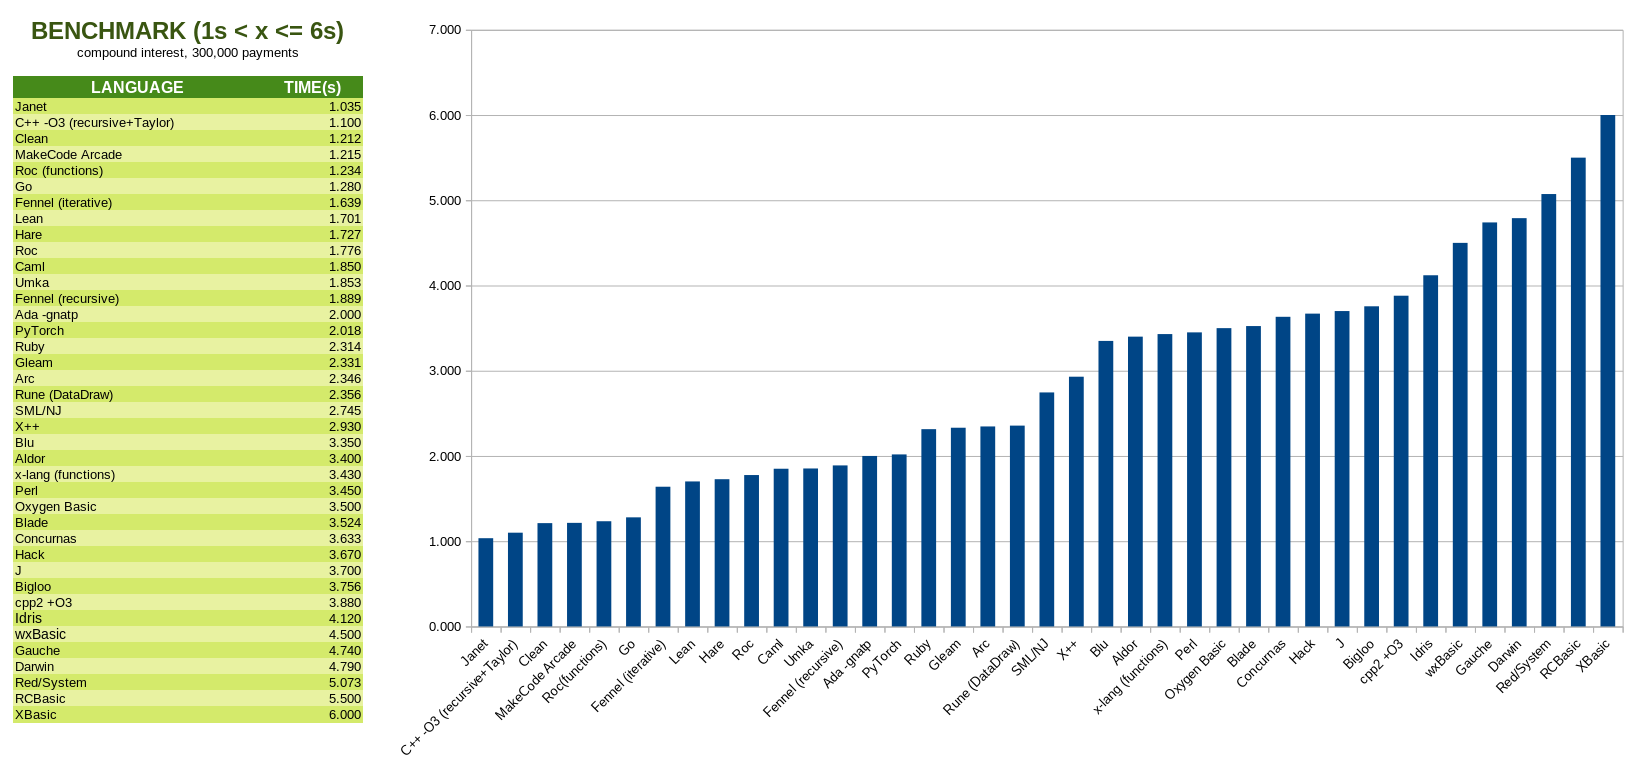
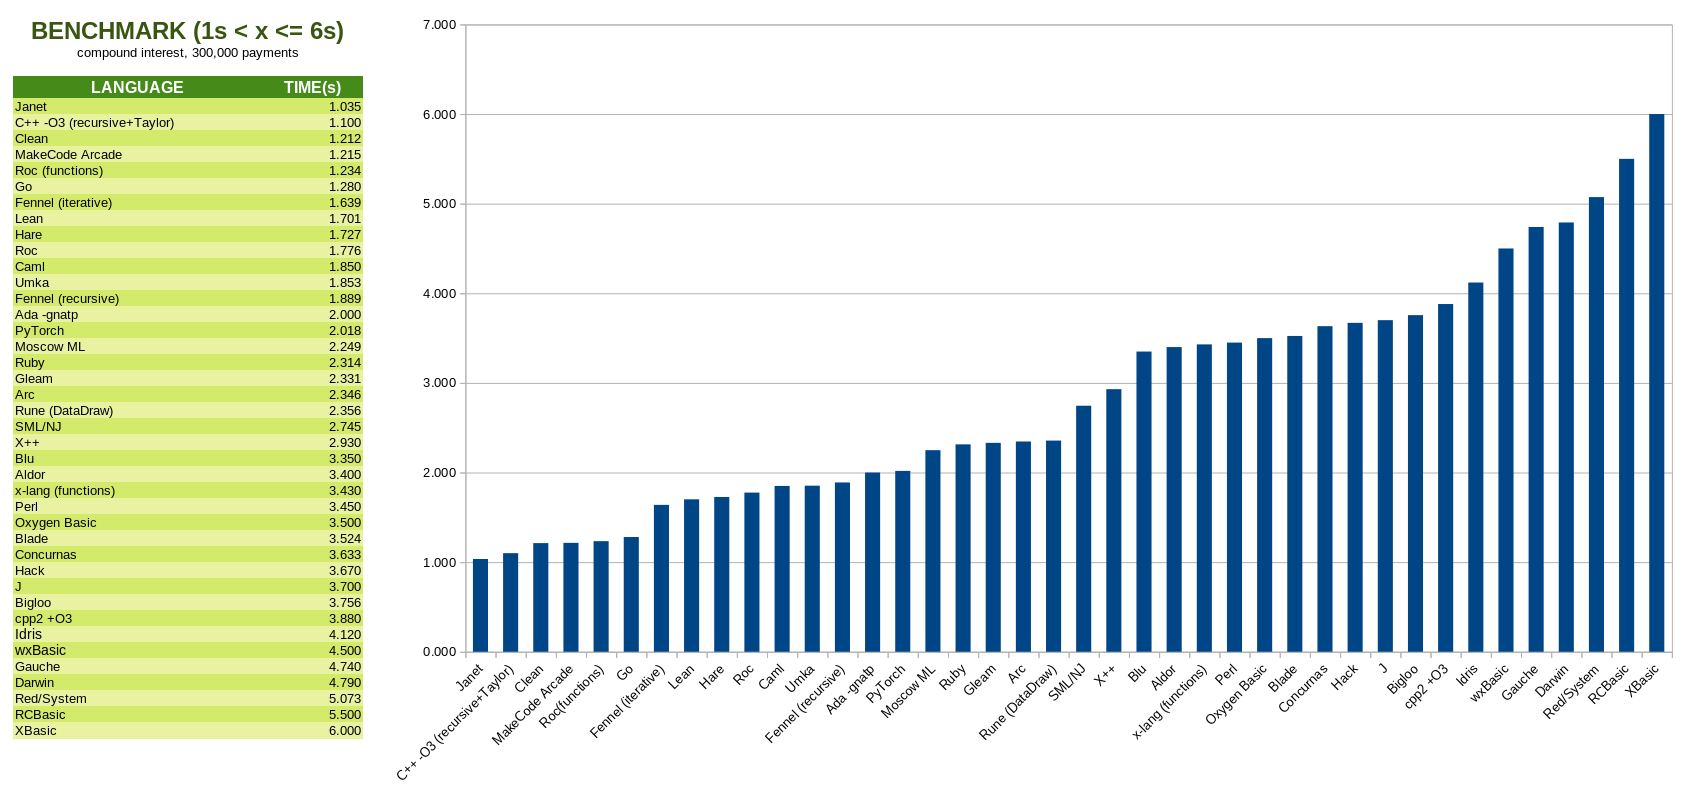
Add files via upload
0.2: 12/11/2026: RETIRADOS DE juros_alice.ml:
                           melhorias nos comentários (incluindo retornos de acentuação); saída do REPL no final; retirados casos especiais
                           validações de variáveis, parâmetros e cálculos; arrays escaláveis dinamicamente preenchidos
                           funções recursivas alteradadas para permitir Tail Call Optimization (TCO)

diff --git a/SOLUCOES.md b/SOLUCOES.md
@@ -967,6 +967,10 @@ This is a list of links in this repository to solutions in different dialects, o
 
 [juros.moon](juros.moon)
 
+### Moscow ML (31/05/2024) 🏛 ♻ ✍ ➰
+
+[juros.sml](juros.sml)
+
 ### MSX BASIC (02/01/2025) 🧠 💖 🔧 ✍
 
 [JUROSMSX.BAS](JUROSMSX.BAS)
@@ -1468,10 +1472,6 @@ This is a list of links in this repository to solutions in different dialects, o
 ### Smalltalk (14/05/2024) 🧠 🏛 🔧 💡 ✍
 
 [RER-Juros.st](RER-Juros.st)
-
-### SML (31/05/2024) 🏛 ♻ ✍
-
-[juros.sml](juros.sml)
 
 ### SML/NJ (07/11/2026) ♻ ➰
 
